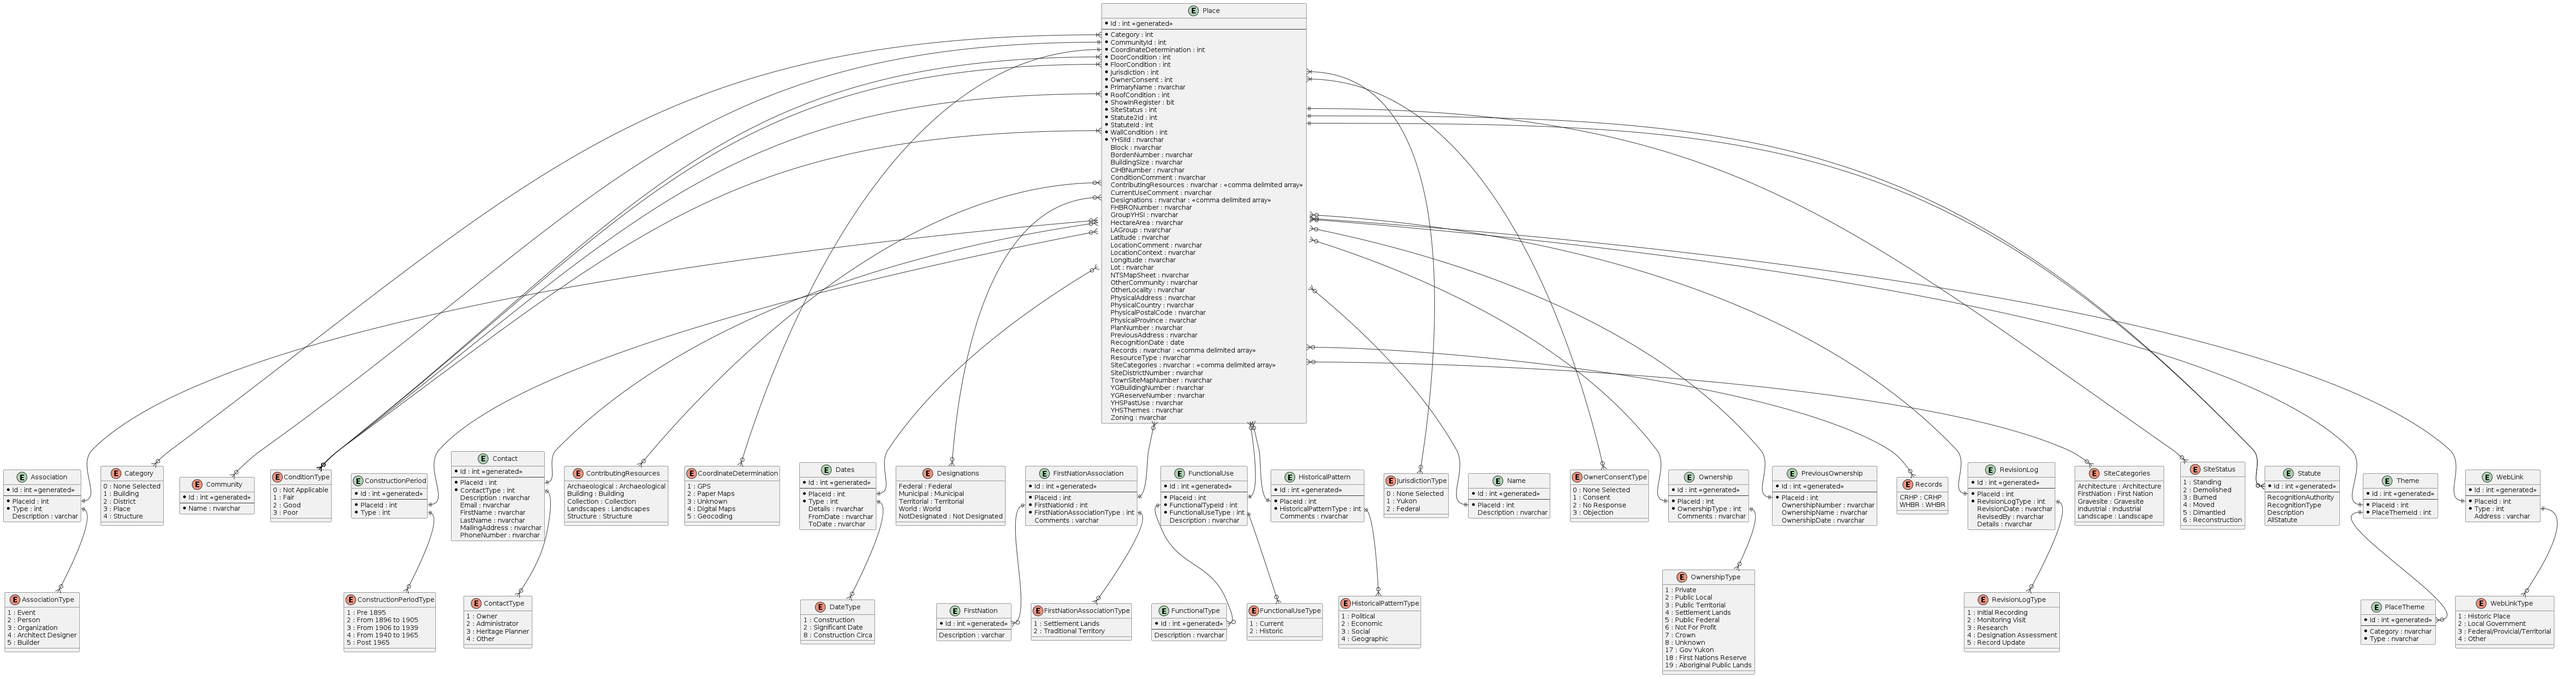
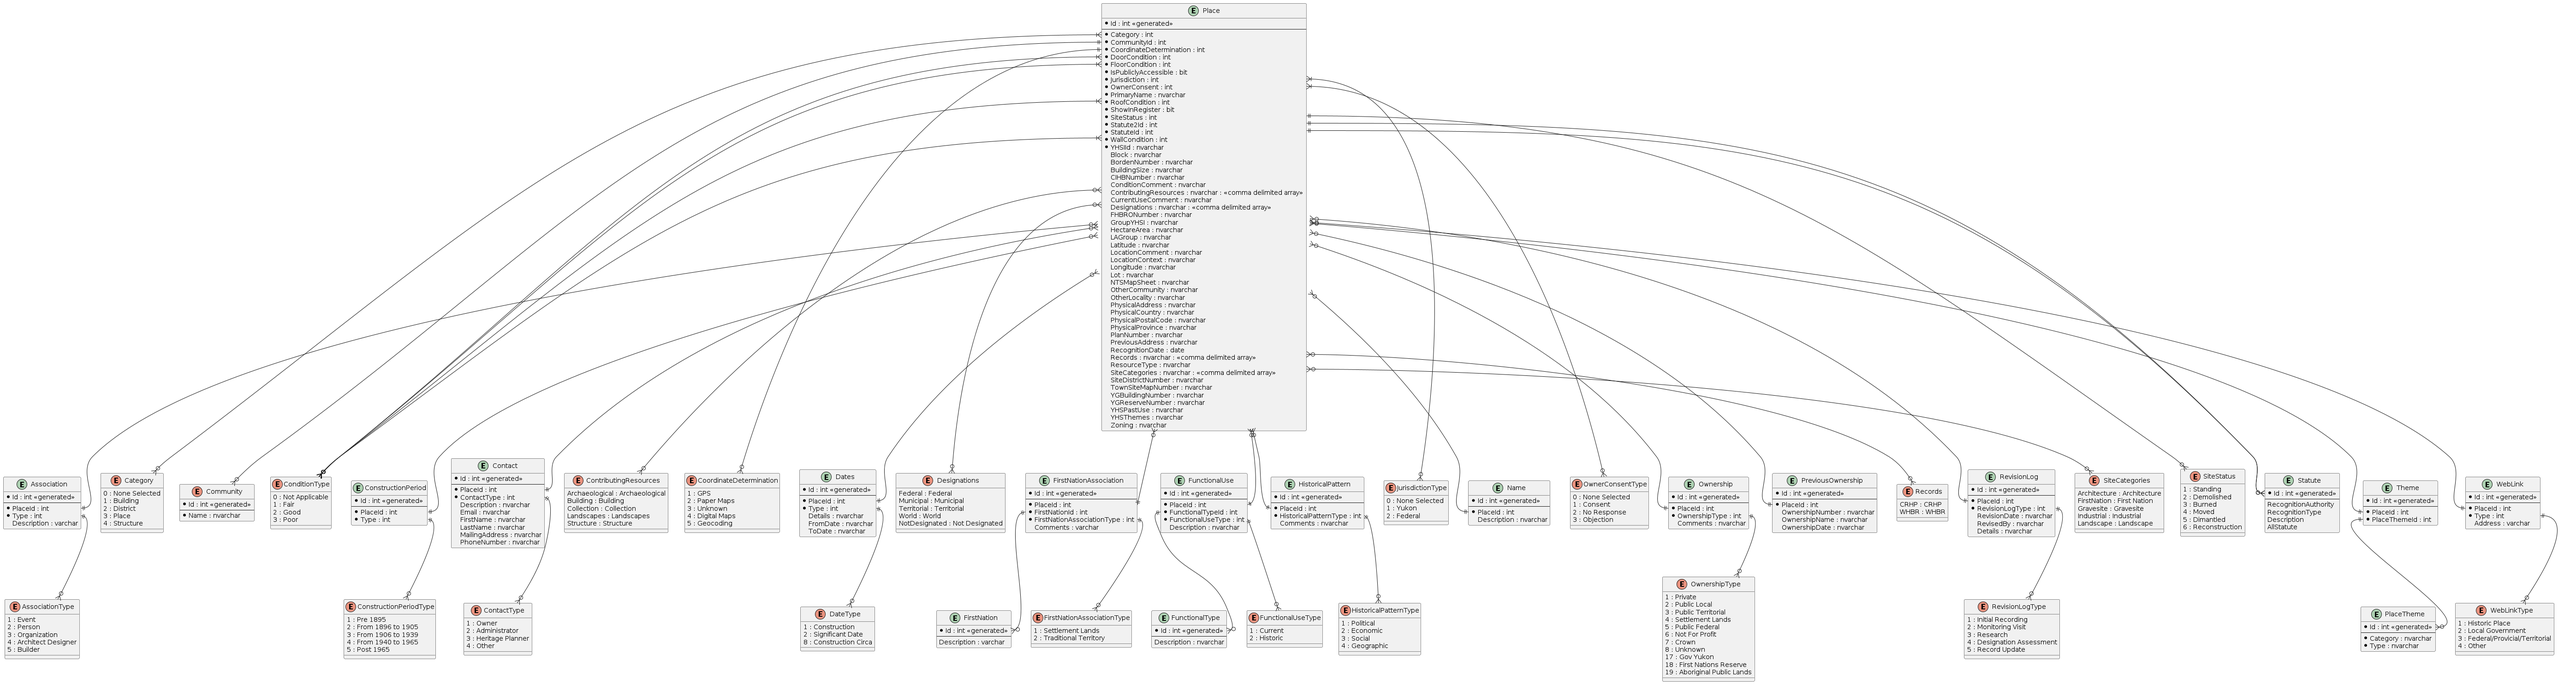
:beetle: Fix some missing wiring for place "Management" form saving.

diff --git a/src/web/src/components/Sites/site-forms/Management.vue b/src/web/src/components/Sites/site-forms/Management.vue
@@ -70,7 +70,7 @@ v-card.mb-0(
               )
               .rounded.white.px-2.pt-1.pb-2
                 v-checkbox(
-                  v-model="place.showInRegister"
+                  v-model="place.isPubliclyAccessible"
                   label="Publicly Accessible?"
                   dense
                   outlined
@@ -91,7 +91,7 @@ v-card.mb-0(
         )
         v-text-field(
           v-model="place.cIHBNumber"
-          label=" CIHB Number"
+          label="CIHB Number"
           required
         )
         v-text-field(
@@ -164,19 +164,18 @@ export default {
     saveChanges() {
       const data = pick(this.place, [
         'cIHBNumber',
-        'doorCondition',
+        'contacts',
         'fHBRONumber',
+        'isPubliclyAccessible',
         'jurisdiction',
         'ownerConsent',
         'recognitionDate',
-        'isPubliclyAccessible',
+        'revisionLogs',
         'statute2Id',
         'statuteId',
+        'webLinks',
         'yGBuildingNumber',
         'yGReserveNumber',
-        'links',
-        'contacts',
-        'revisionLogs',
       ]);
 
       return this.savePlace(data);

diff --git a/src/api/routes/place-router.ts b/src/api/routes/place-router.ts
@@ -312,6 +312,7 @@ placeRouter.patch(
 		body('groupYHSI').isString().optional({ nullable: true }),
 		body('hectareArea').isString().optional({ nullable: true }),
 		body('historicalPatterns').isArray().optional({ nullable: true }),
+		body('isPubliclyAccessible').isBoolean().optional(),
 		body('jurisdiction').isInt().optional(),
 		body('lAGroup').isString().optional({ nullable: true }),
 		body('latitude').isString().optional({ nullable: true }),
@@ -323,6 +324,7 @@ placeRouter.patch(
 		body('nTSMapSheet').isString().optional({ nullable: true }),
 		body('otherCommunity').isString().optional({ nullable: true }),
 		body('otherLocality').isString().optional({ nullable: true }),
+		body('ownerConsent').isInt().optional(),
 		body('ownerships').isArray().optional({ nullable: true }),
 		body('physicalAddress').isString().optional({ nullable: true }),
 		body('physicalCountry').isString().optional({ nullable: true }),
